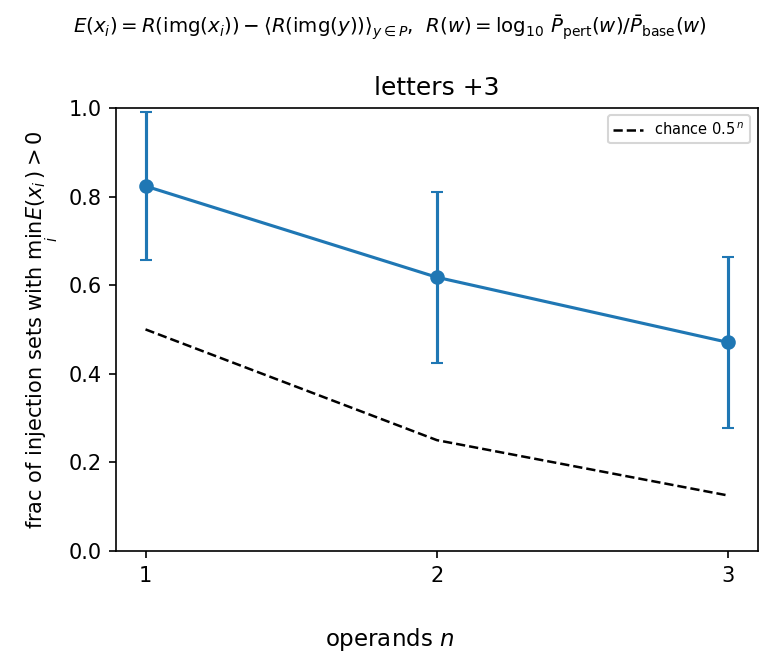
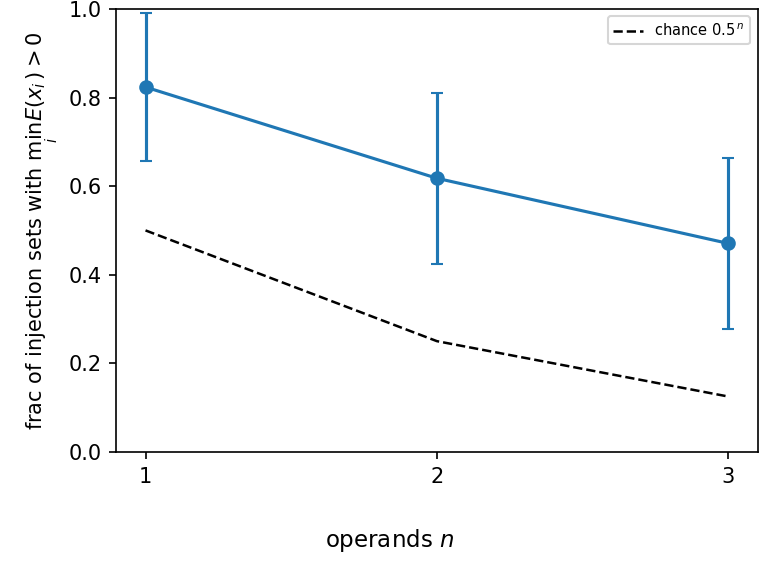
parallel figure: crop the title band (letters +3 + E formula header) off the vendored plot; E, min-criterion, and chance line now defined in the caption; titled original archived outside the repo

diff --git a/post.md b/post.md
@@ -78,13 +78,13 @@ _**Example of one intervention.** a subleading injection on `H` (the leader `G` 
 
 ### Parallel computation
 
-This simple response behavior begs the question whether it is possible to perturb $n>1$ source letters _simultaneously_ (again, keeping them subleading) and see whether the corresponding target images respond. This would be interesting, since it  to carry out simultaneous computation, a key advantage that latent reasoning models have on paper.
+This simple response behavior begs the question whether it is possible to perturb $n>1$ source letters _simultaneously_ (again, keeping them subleading) and see whether the corresponding target images respond. This would be interesting, since it would suggest that the model can carry out simultaneous computation, a key advantage that latent reasoning models have on paper.
 
-To this end, we measured responses $\langle R\rangle_{T}$ and $\langle R\rangle_{N}$ averaged over the target images over the injection operand sets and images of *non-injected but possible operands*, respectively, and measure the _effect_ $E = \langle R\rangle_{T} - \langle R\rangle_{N}$. We then report the fraction of simultaneous injections that has positive response on all targets, as well as a null hypothesis if tokens would respond randomly.
+To this end, we measured responses $ R_T$ and $\langle R\rangle_{N}$ averaged over the target images over the injection operand sets and images of *non-injected but possible operands*, respectively, and measure the _effect_ $E = \langle R\rangle_{T} - \langle R\rangle_{N}$. We then report the fraction of simultaneous injections that has positive response on all targets, as well as a null hypothesis if tokens would respond randomly.
 
 ![Parallel injection fraction](figs/letters_parallel_frac.png)
 
-_**DiffusionGemma responds to multiple injections in parallel, more than expected by chance.** Error bars are 95% CIs over possible injection operand sets._
+_**DiffusionGemma responds to multiple injections in parallel, more than expected by chance.** Letters task with $k=3$: for each injected operand $x_i$ we define the per-member effect $E(x_i) = R(\mathrm{img}(x_i)) - \langle R(\mathrm{img}(y))\rangle_{y\in P}$, where $\mathrm{img}(x) = x+k$ and $P$ is the pool of possible operands, with the response $R$ as defined above; an injection set counts as responding if $\min_i E(x_i) > 0$. Dashed: chance level $0.5^n$. Error bars are 95% CIs over possible injection operand sets._
 
 We observe that the average target response exceeds the non-target response for all injected members more often than chance, averaged over possible injection sets. This behavior is plausible considering the computation in question: a shift is easily implemented by a linear operation in representation space. Therefore by linearity, superpositions of letters will be transported to superpositions of responses. Overall, this leaves an interpretable picture.
 
@@ -94,11 +94,11 @@ In contrast, we found that for multiplication (e.g. letter × 3) or taking the a
 
 In the previous _letter arithmetic_ task, DiffusionGemma did respond to modifications of the distributional state in the way we expected. While suggestive, it is unclear if the model also would make use of $\mathbf{s}^t$ _autonomously_, i.e. without interventions.
 
-To investigate this, we searched for a non-trivial (i.e., not just a binary choice) task where DG will use a hypothesis subleading in its distribution. An instance we found is a _word-level palindrome_ task. We ask the model ```Please write a word-level palindrome```. DG maintains two competing completions of the same canvas: a literal _seasonal_ phrase (```All leaves fall when leaves fall all.```) and a well-known _idiom_ (```All for one and one for all.```). We measure how the probability mass of these two typical outcomes, summed over positions, varies over the course of diffusion.
+To investigate this, we searched for a non-trivial (i.e., not just a binary choice) task where DG will use a hypothesis subleading in its distribution. An instance we found is a _word-level palindrome_ task. We ask the model ```Please write a word-level palindrome```. DG maintains two competing completions of the same canvas: a literal _seasonal_ phrase (```All leaves fall when leaves fall all.```) and an _idiom_ (```All for one and one for all.```). We measure how the probability mass of these two typical outcomes, summed over positions, varies over the course of diffusion.
 
 ![Seasonal vs idiom: ablation](figs/seasonal_ember_kill.png)
 
-_**Ablating a nascent contender can prevent takeover.** Probability mass of the two completions at the contested slots, summed over comprising tokens (black: idiom, purple: seasonal). Top row: Base run without interventions. Bottom row: ablation of the idiom's probability mass (red) beyond step $t=2$._
+_**Ablating a nascent contender in the distribution can prevent takeover.** Probability mass of the two completions at the contested slots, summed over comprising tokens (black: idiom, purple: seasonal). Top row: Base run without interventions. Bottom row: ablation of the idiom's probability mass (red) beyond step $t=2$._
 
 The canvas will read the _seasonal_ answer for the first few diffusion steps, after which it flips and stays at _idiom_. Interestingly, this is accompanied by _dynamics_ in $\mathbf{s}^t$: _idiom_ will start at ~0, and progressively gain weight, replacing _seasonal_.
 

diff --git a/AGENTS.md b/AGENTS.md
@@ -77,9 +77,14 @@ committed as artifacts, not regenerable offline. Provenance of `src_data/`:
   merged 2026-08-15: full restructure (new Introduction; intro→"Background on DiffusionGemma";
   "Parallel computation" DELIBERATELY REINSTATED by the user with a NEW metric — fraction of
   injection sets with min-over-members E(x_i) > 0 vs the 0.5^n chance null, E(x_i) = R(img(x_i))
-  − mean R over the possible-operand image pool; its figure `figs/fig2c_parallel_frac.png` is
+  − mean R over the possible-operand image pool; its figure `figs/letters_parallel_frac.png` is
   VENDORED from the docx media (user-made upstream, k=3, n≤3 — NOT regenerable from src_data;
-  second repro exception besides card PNGs; reimplementable from payload let n-sweep if wanted);
+  second repro exception besides card PNGs). 2026-08-15: title band ("letters +3" + E formula)
+  CROPPED off per user (original archived at dg_blog_archive/letters_parallel_frac_titled.png);
+  E definition moved into the post caption. REPRO ATTEMPT FAILED: the payload's let/uu k=3
+  n-sweeps give min-E fractions 0.40–0.50 at n=1 (either pool convention) vs the plotted 0.82 —
+  the figure's source data/conventions are upstream-only; ask the user for the generating
+  script/data if this must enter the repro guarantee;
   Autonomous-usage section moved to main text with the user's caption + "early and late ablation"
   claim; interp sections under "## Transfer of interpretability techniques"; Conclusion after it;
   appendix = posthoc + bidirectionality only. REMOVED from the post per this pass: the figA16
